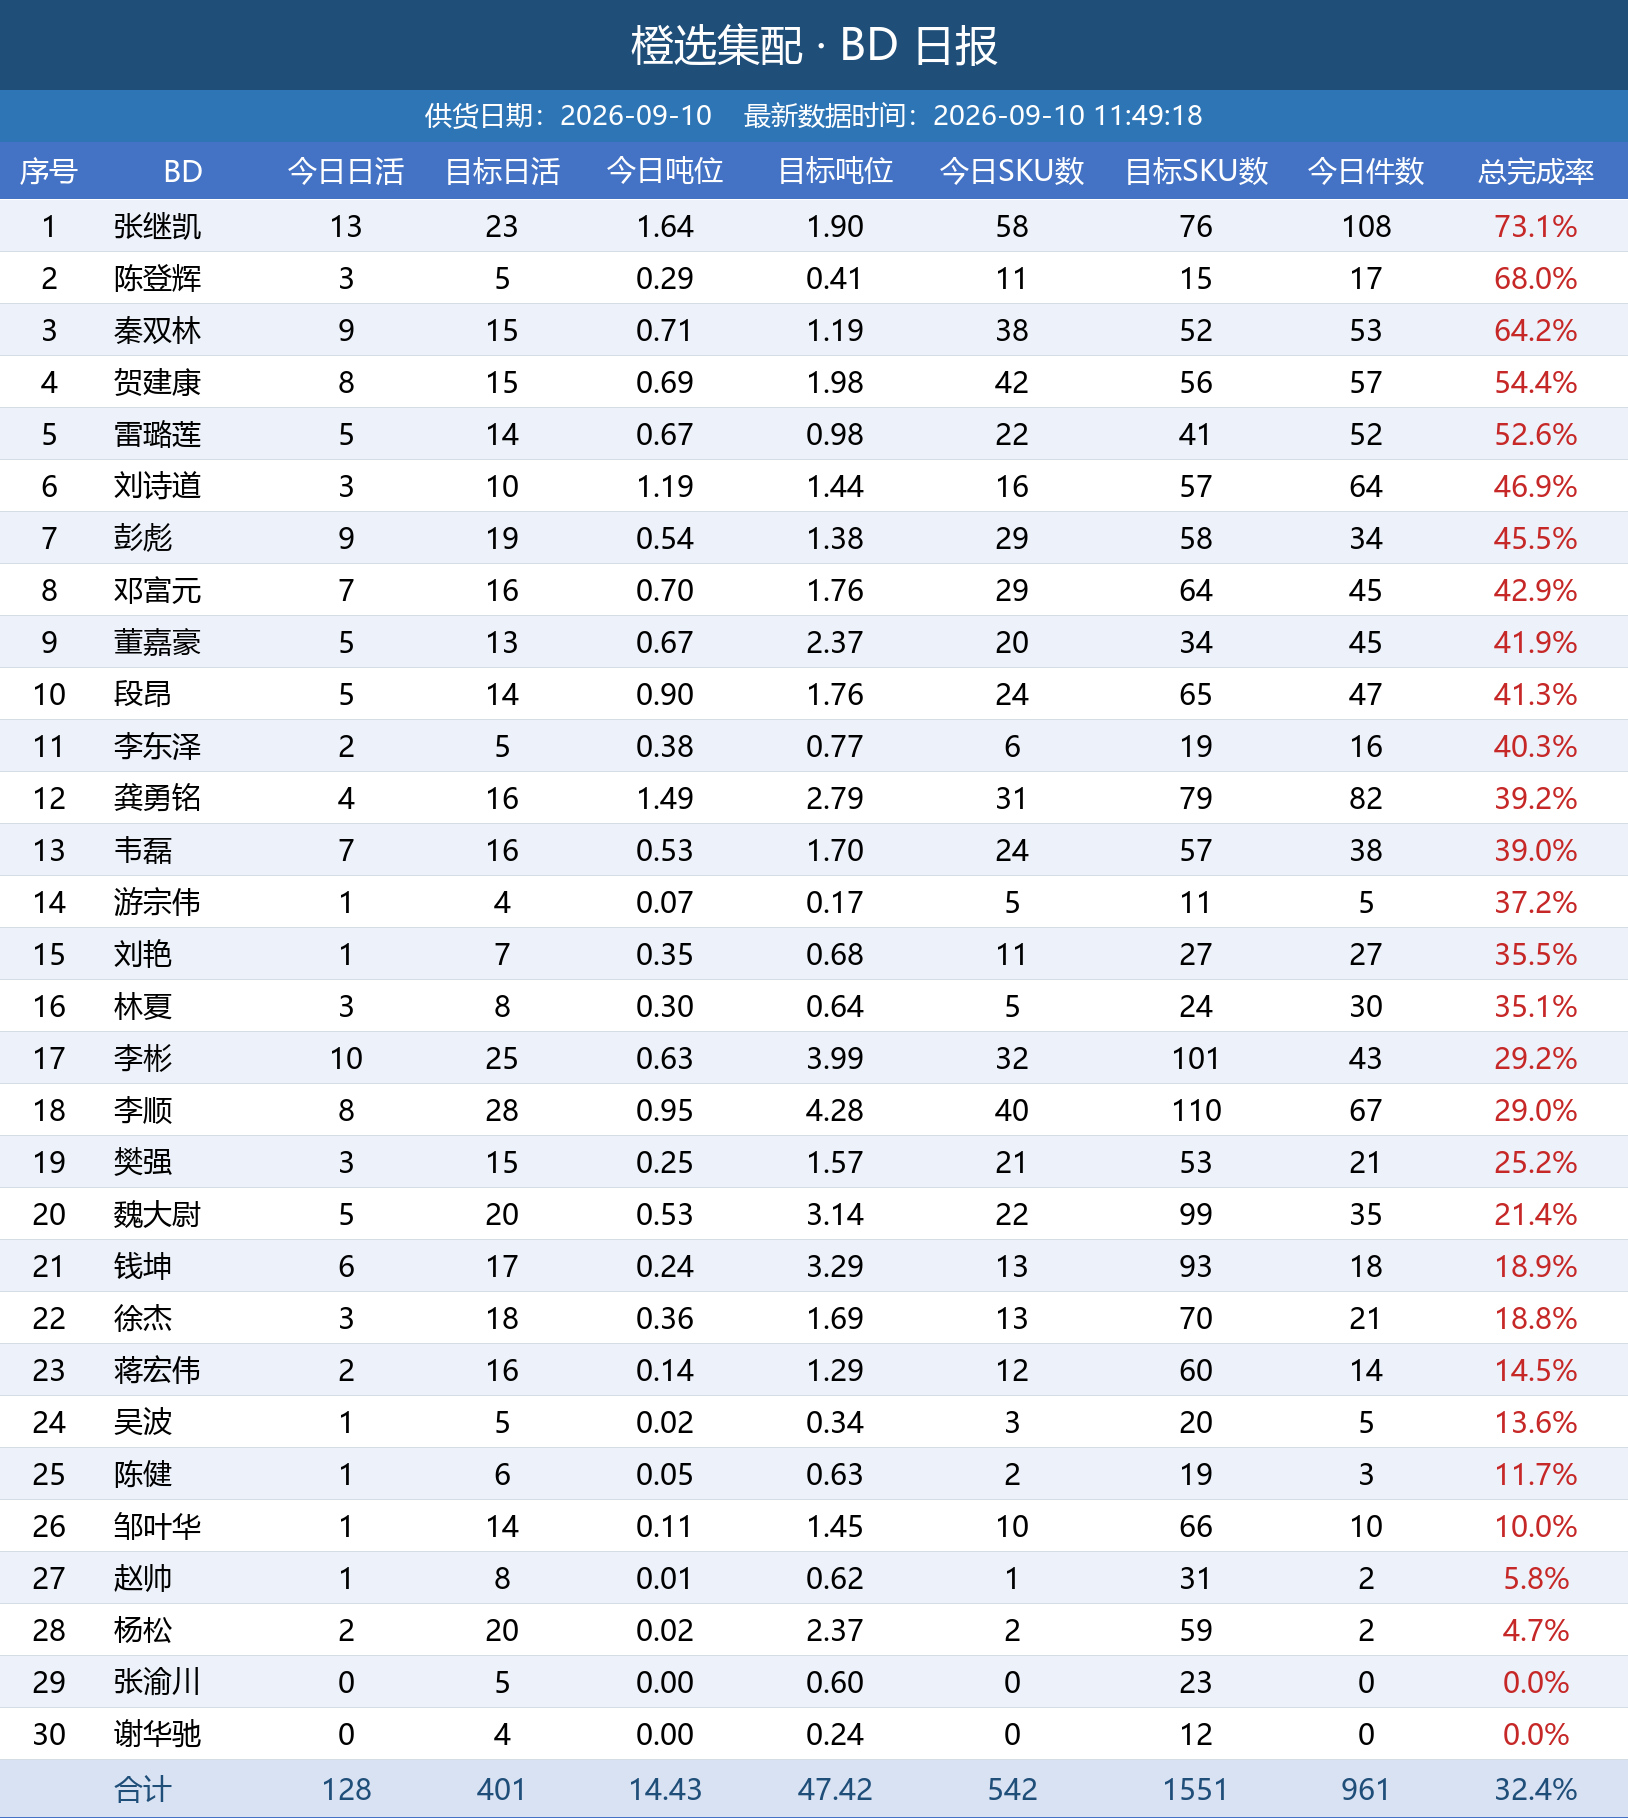
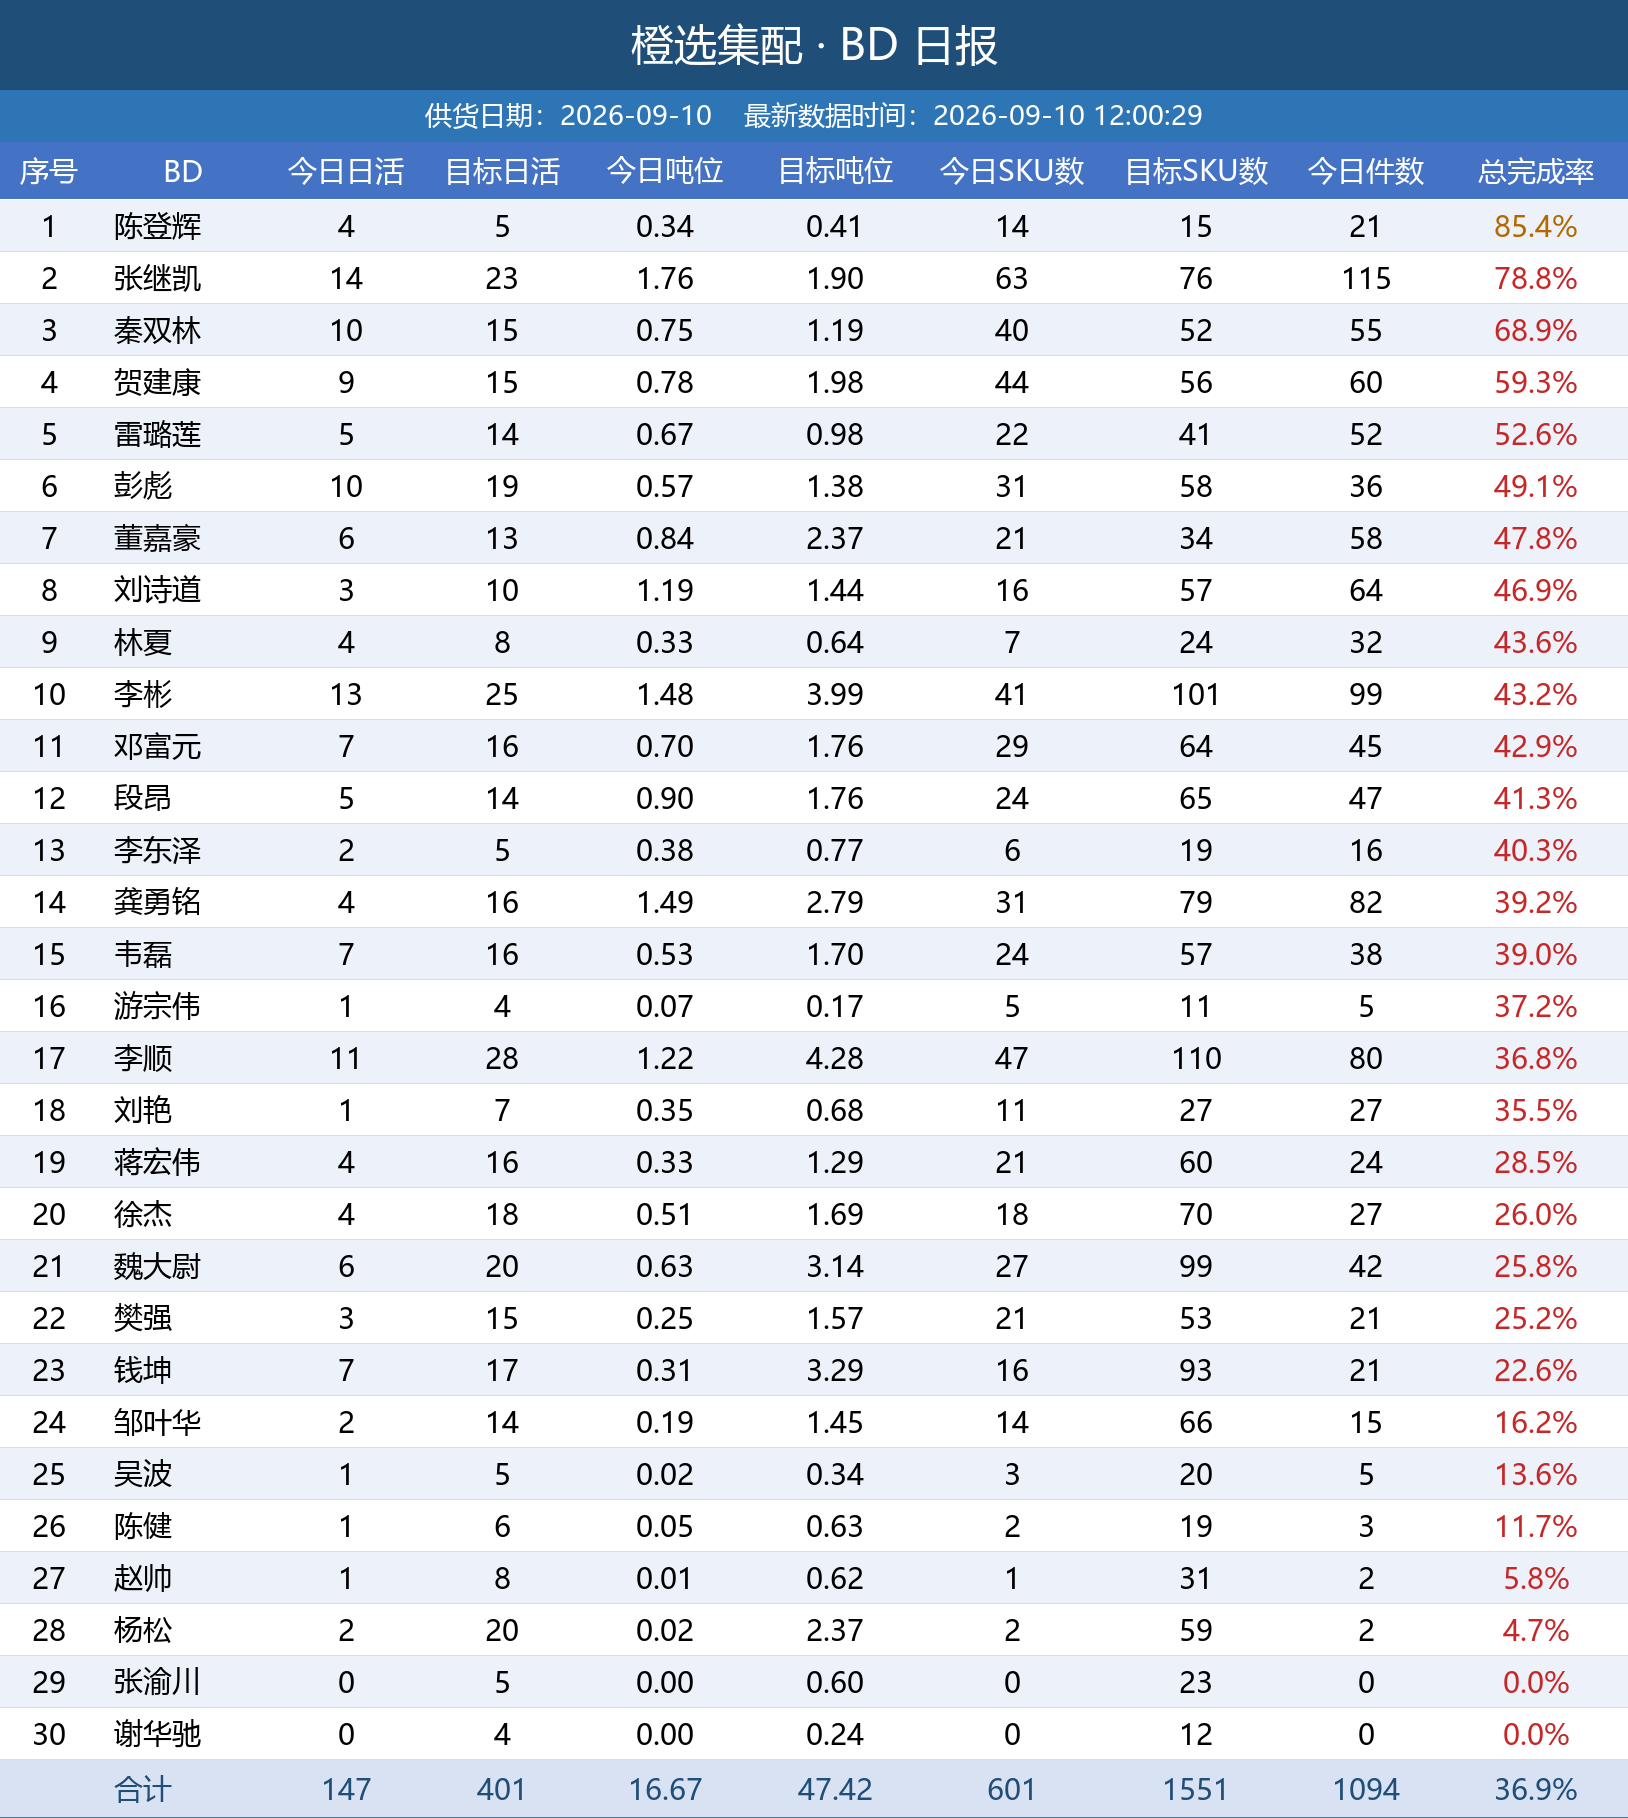
自动更新日报图片

diff --git a/index.html b/index.html
@@ -11,7 +11,7 @@ img { max-width: 100%; border: 1px solid #e5e5e5; margin-bottom: 24px; display: 
 </style>
 </head>
 <body>
-<h1>橙选集配日报图片（20260910_114921）</h1>
+<h1>橙选集配日报图片（20260910_120034）</h1>
 <img src="bd_latest.png" alt="BD 日报">
 <img src="wh_latest.png" alt="城市仓日报">
 <img src="zs_latest.png" alt="招商日报">
